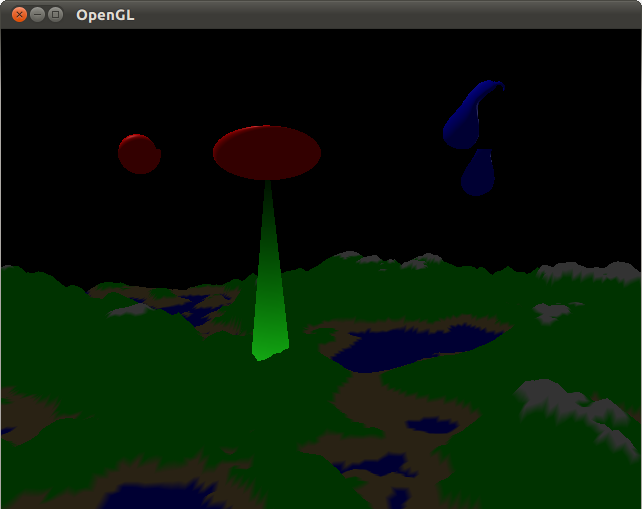
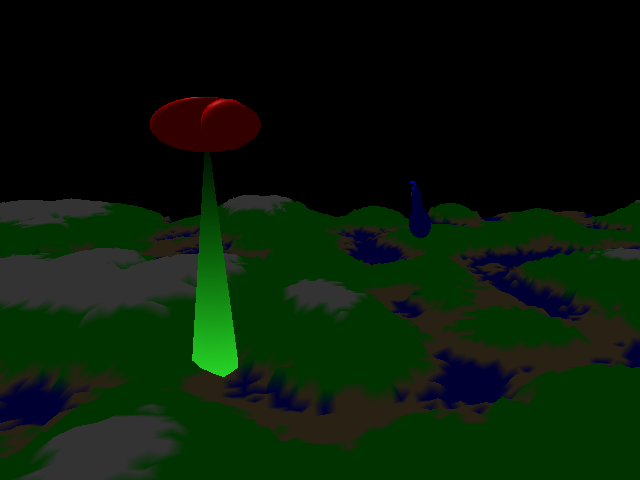
added new screenshot, and camera tools

diff --git a/animation.cpp b/animation.cpp
@@ -40,6 +40,30 @@ namespace graingert{
 		terrian->buffer();
 	}
 	
+	glm::vec3 get_missile_postion(float time){
+		float miss_time = fmod(time, 3.0f);
+		
+		PosFrame frames[] {
+			{0.0f, glm::vec3(10,-20,0)},
+			{1.0f, glm::vec3(-2,0,1)},
+			
+			{1.0f, glm::vec3(0,-20,10)},
+			{2.0f, glm::vec3(-2,0,1)},
+			
+			{2.0f, glm::vec3(10,-20,10)},
+			{3.0f, glm::vec3(-2,0,1)},
+		};
+		
+		for (int i = 0; i<6; i++){
+			if (miss_time <= frames[i].time){
+				float ratio = calc_ratio(frames[i-1].time, frames[i].time, time);
+				return calc_tween(frames[i-1].pos,frames[i].pos,ratio);
+			}
+		}
+		
+	}
+	
+	
 	void Animation::draw(float time){
 		setmatrix(time);
 		_renderer->_p_matrix = perspective;
@@ -63,38 +87,13 @@ namespace graingert{
 		_renderer->bind();
 		terrian->draw();
 		
-		float miss_time = fmod(time, 4.0f);
+		glm::mat4 missile(1);
+		missile = glm::scale(missile, glm::vec3(0.3, 0.3, 0.3));
+		missile = glm::translate(missile, get_missile_postion(time));			
+		_renderer->_mv_matrix = view * missile;
+		_renderer->bind();
 		
-		PosFrame frames[] {
-			{0.0f, glm::vec3(10,-20,0)},
-			{1.0f, glm::vec3(-2,0,1)},
-			{1.0f, glm::vec3(0,-20,10)},
-			{2.0f, glm::vec3(-2,0,1)},
-			{2.0f, glm::vec3(10,-20,10)},
-			{3.0f, glm::vec3(-2,0,1)},
-		};
-		
-
-	
-		for (int i = 0; i<6; i++){
-			if (miss_time <= frames[i].time){
-				
-				float ratio = calc_ratio(frames[i-1].time, frames[i].time, time);
-				
-				glm::mat4 missile(1);
-				missile = glm::scale(missile, glm::vec3(0.3, 0.3, 0.3));
-				
-				glm::vec3 position = calc_tween(frames[i-1].pos,frames[i].pos,ratio);
-				missile = glm::translate(missile, position);
-				
-				
-				
-				_renderer->_mv_matrix = view * missile;
-				_renderer->bind();
-				spherea->draw();
-				break;	
-			}
-		}
+		spherea->draw();
 		
 		
 		glm::mat4 moon(1);

diff --git a/main.cpp b/main.cpp
@@ -78,7 +78,9 @@ void key_callback(int key, int state){
 				prev_time = 0.0f;
 				break;
 			case 'P':
-				cam_position = glm::vec3(10, 0, 0);
+				cam_position = glm::vec3(10.000000,0.000000,0.000000);//, glm::vec3(0.000000,-2.000000,-1.000000), glm::vec3(0.0f,1.0f,0.0f);
+				up = -2;
+				pann = -1;
 				break;
 			case GLFW_KEY_DOWN:
 				if (speed > 0){
